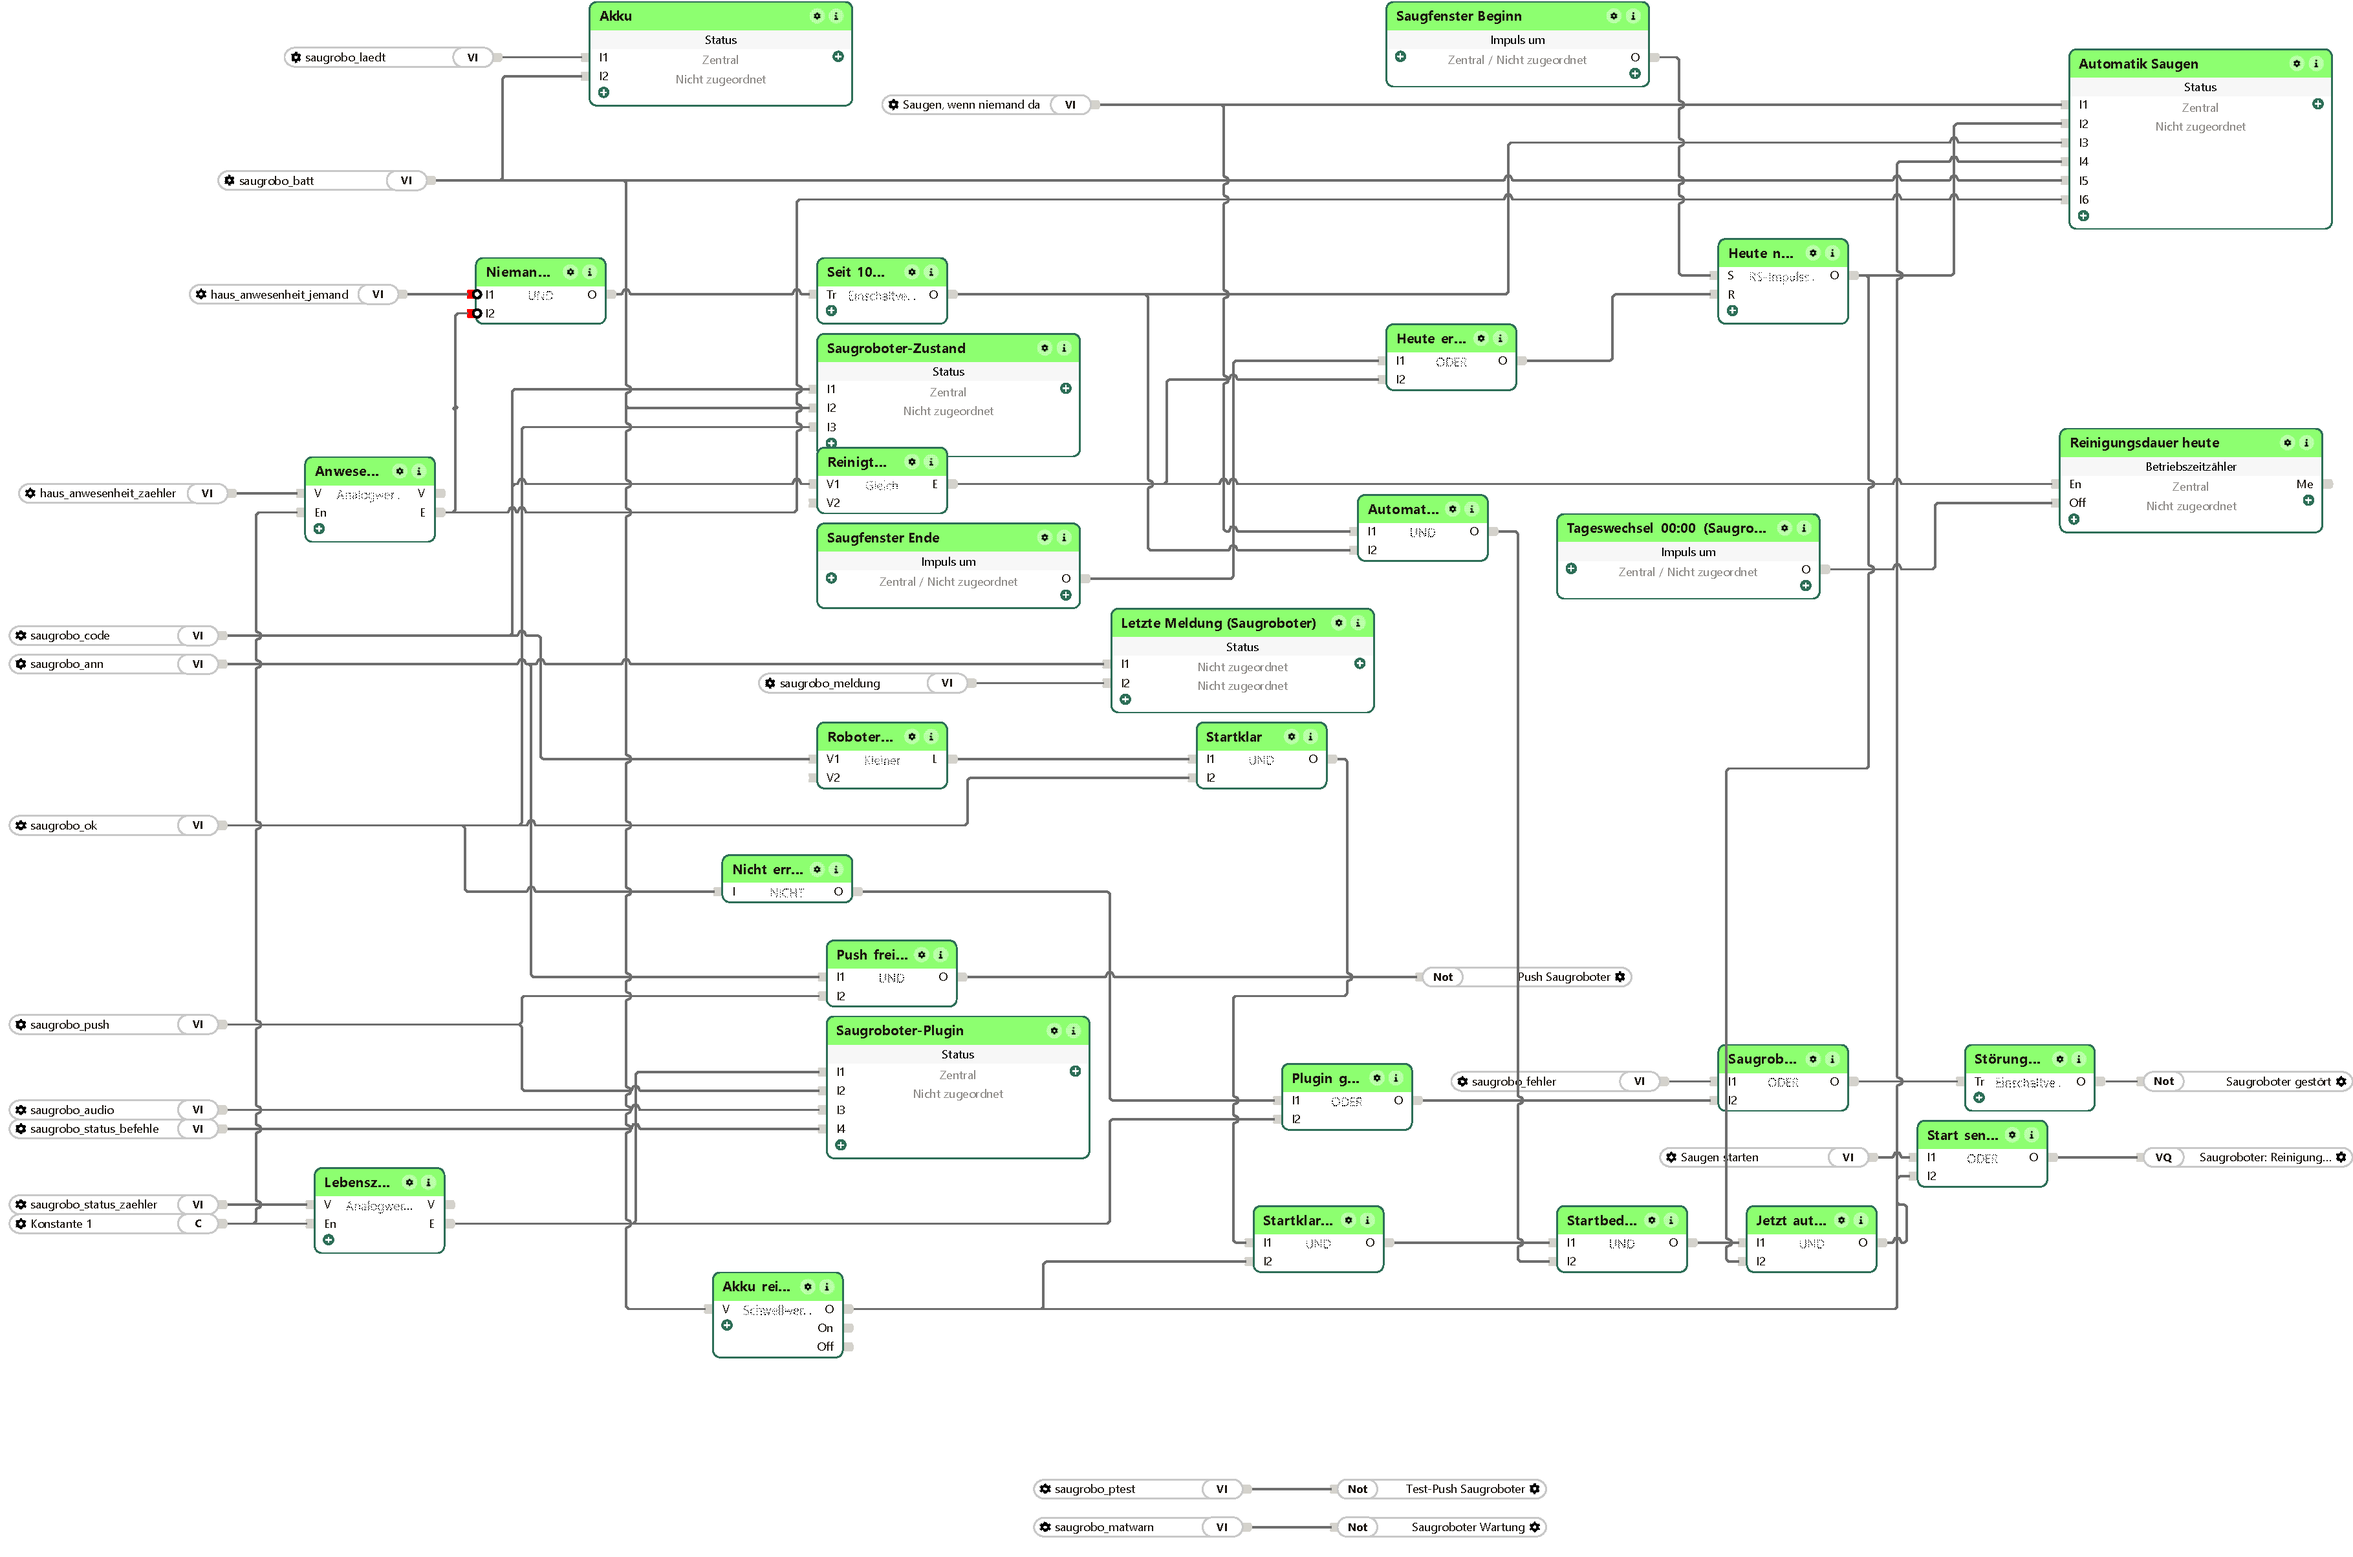
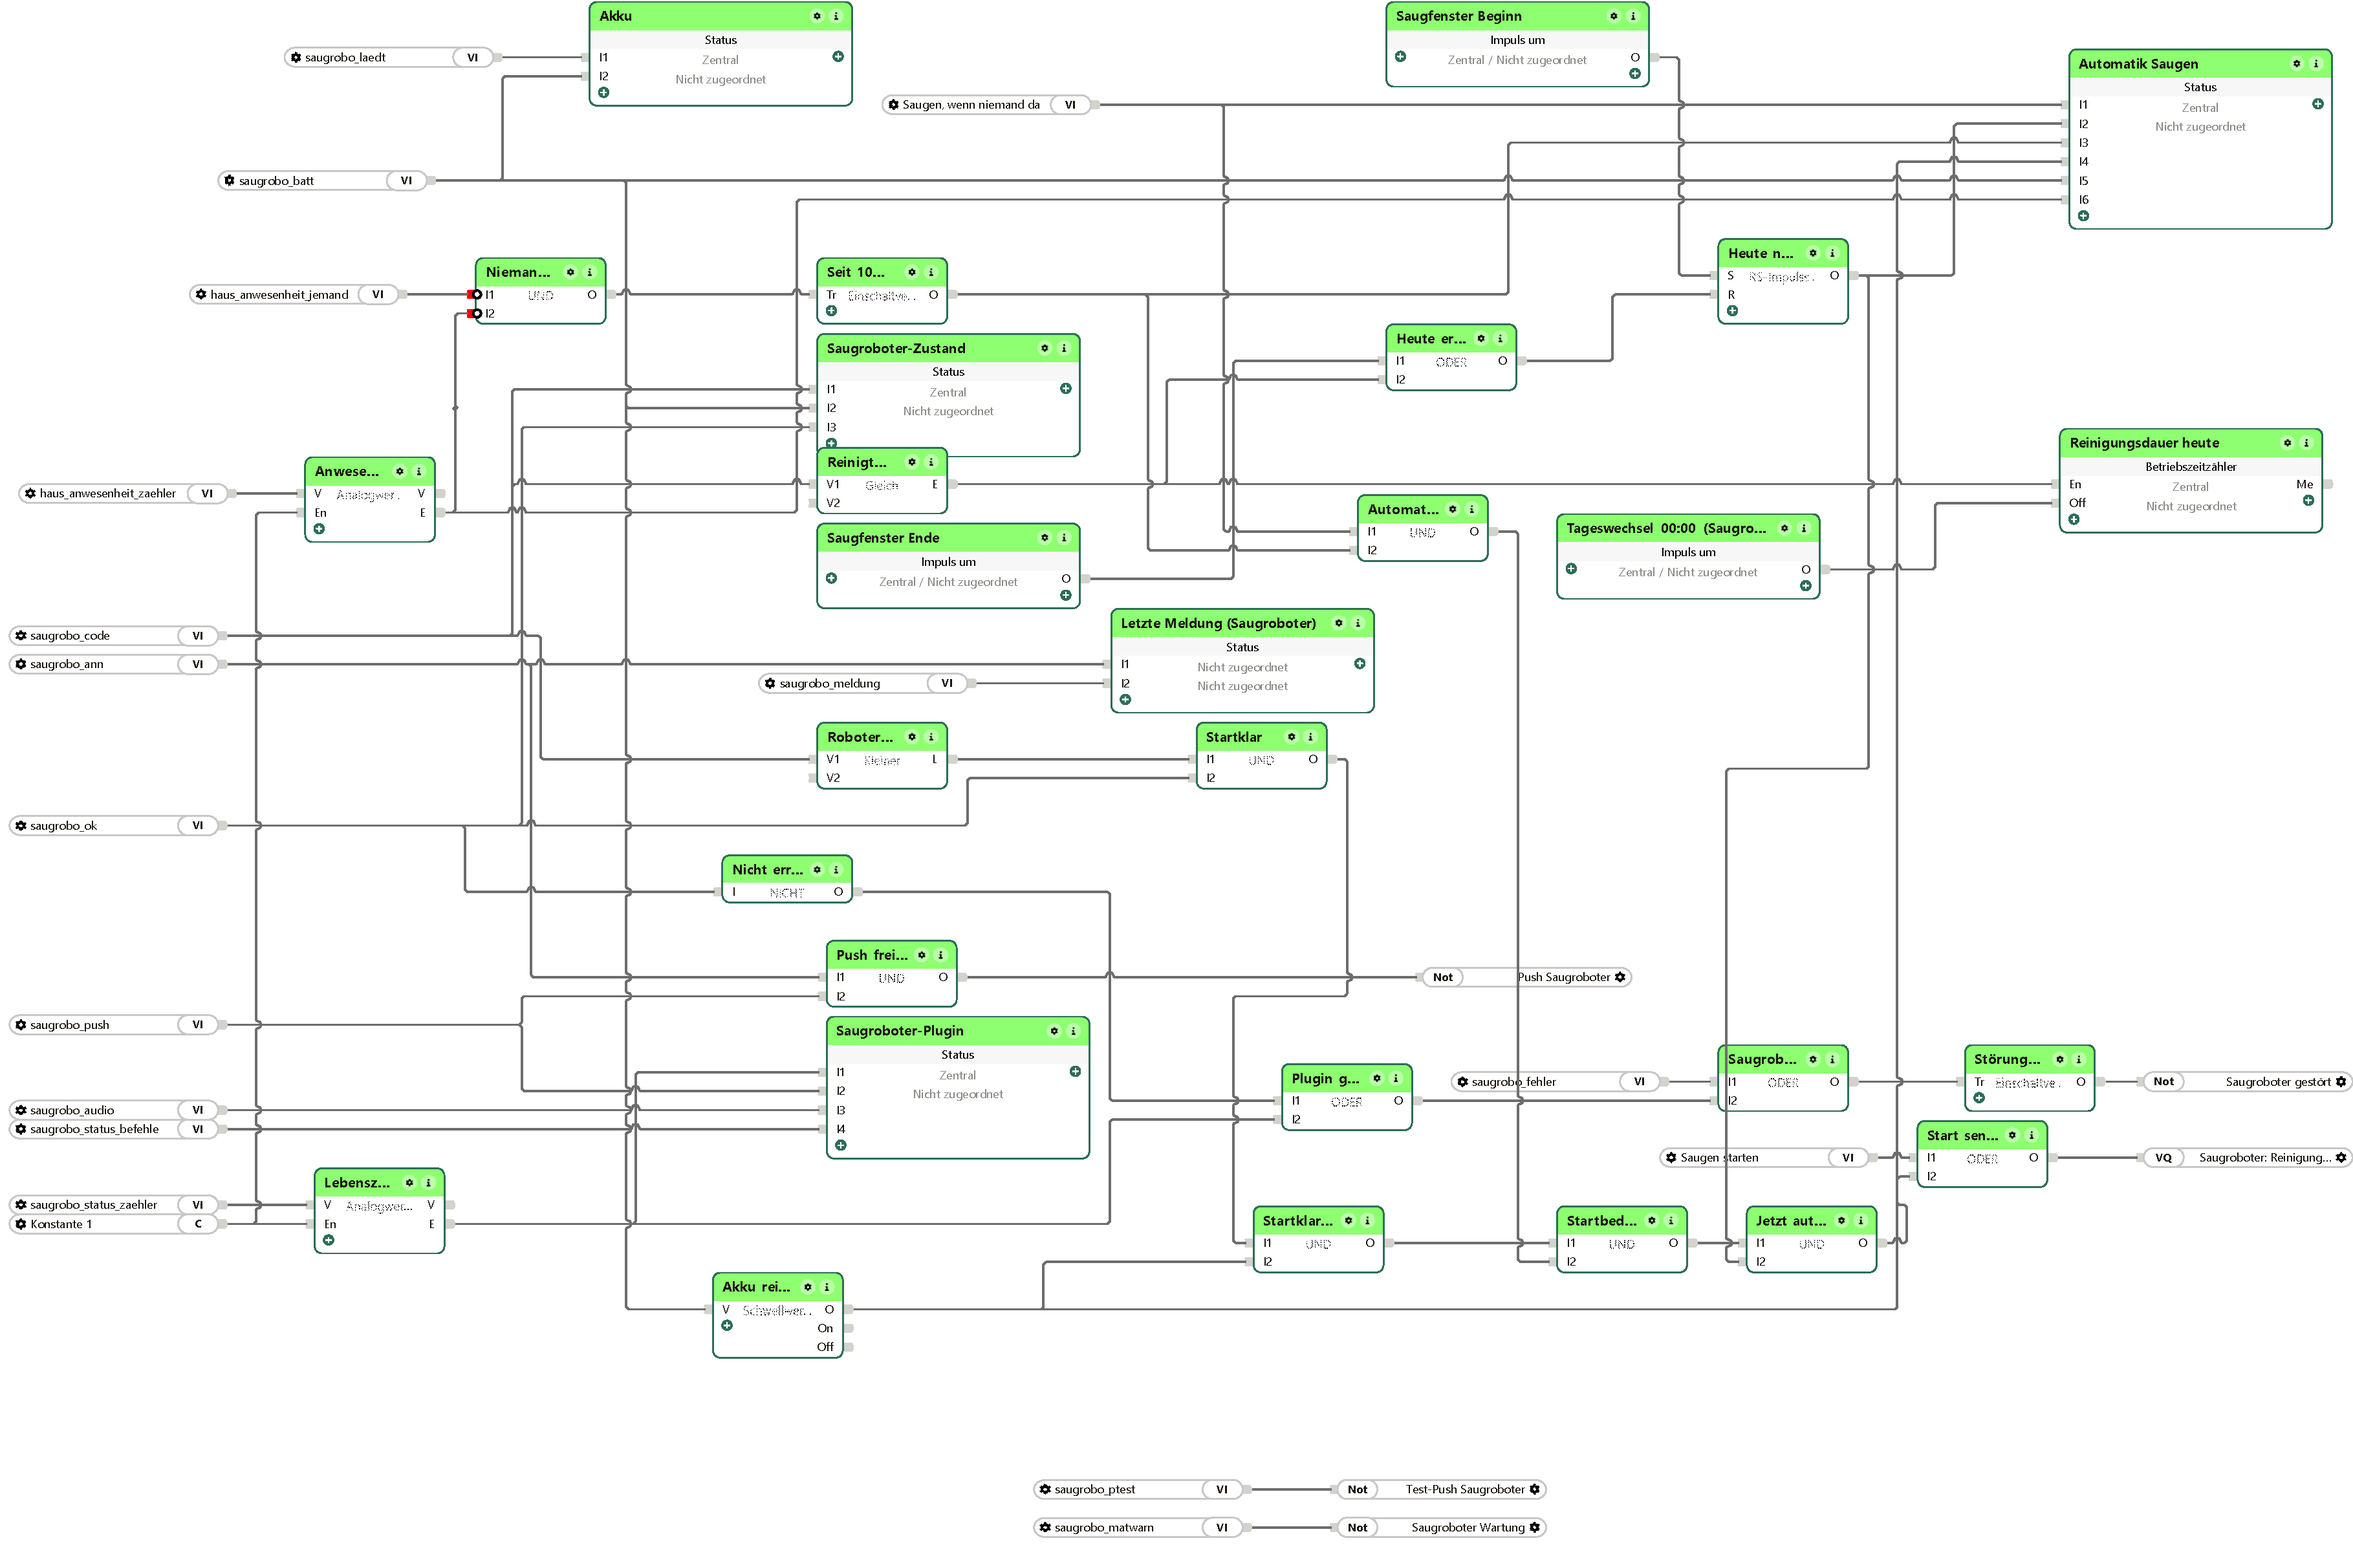
Saugroboter-Valetudo 1.1.26: Bilder der Einbindung erneuert (Musterprojekt 614cd0f)
Bilder der Einbindung erneuert: Das Bild der Hauptseite „Saugroboter“ zeigt die neu angeordnete Seite. Sonst keine Änderung gegen 1.1.25.

diff --git a/README.md b/README.md
@@ -1,6 +1,6 @@
 # LoxBerry-Plugin: Saugroboter (Valetudo)
 
-Version 1.1.25 · LoxBerry ab 3.0 · PHP 7.4 und 8.x · am Gerät gemessen mit Valetudo und mit dem Xiaomi T12
+Version 1.1.26 · LoxBerry ab 3.0 · PHP 7.4 und 8.x · am Gerät gemessen mit Valetudo und mit dem Xiaomi T12
 
 Bindet Saugroboter an Loxone an – **mit der cloudfreien Firmware Valetudo** oder **als Xiaomi-Saugroboter direkt
 über miIO** (ohne Valetudo, im Heimnetz, ohne Cloud im Betrieb). **Bis zu fünf Roboter**, beide Arten gemischt.
@@ -17,6 +17,10 @@ Die Werte gehen per MQTT an das MQTT-Gateway (Virtuelle Eingänge), Befehle übe
 ab Werk aus). Der bisherige Weg mit einfachen GET-Aufrufen und Aktionstoken bleibt für bestehende Anlagen.
 
 Kompatibel mit LoxBerry 3.x und **LoxBerry 4** (reines PHP, PHP 7.4 und 8.x).
+
+## Neu in 1.1.26
+
+Bilder der Einbindung erneuert: Das Bild der Hauptseite „Saugroboter“ zeigt die neu angeordnete Seite. Sonst keine Änderung gegen 1.1.25.
 
 ## Neu in 1.1.25
 
